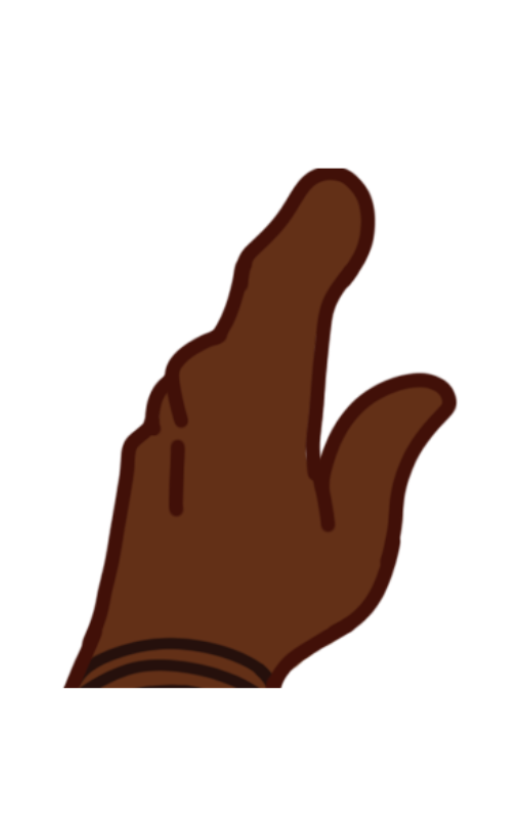
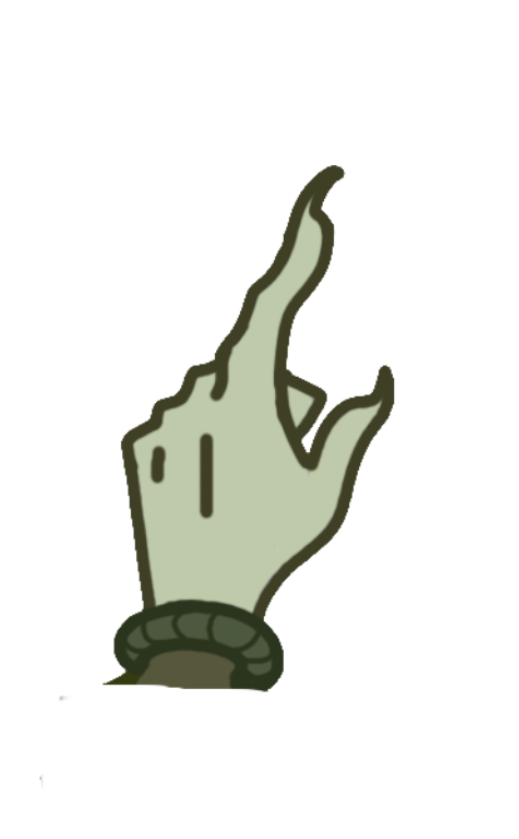
Cursor do jogador 3 com sprite diferente

Changed region(s): [[0.1233, 0.1859, 0.894, 0.8367]]

diff --git a/src/TurnState.cpp b/src/TurnState.cpp
@@ -34,7 +34,7 @@ void TurnState::Init() {
     };
     instance.turnSpriteGO->box.CenterIn({
         (Game::GetInstance().widthS/2.0f),
-        (Game::GetInstance().heightS/2.0f) + (Game::GetInstance().heightS / 10)*0.65
+        (Game::GetInstance().heightS/2.0f) + (Game::GetInstance().heightS / 10.0f) * 0.65f
     });
     // .leftUp = {-100, instance.turnSprite->GetHeightS()};
 }
